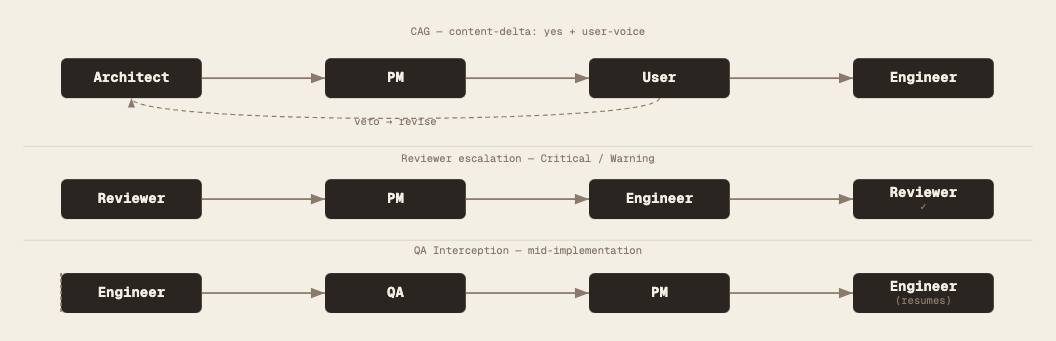
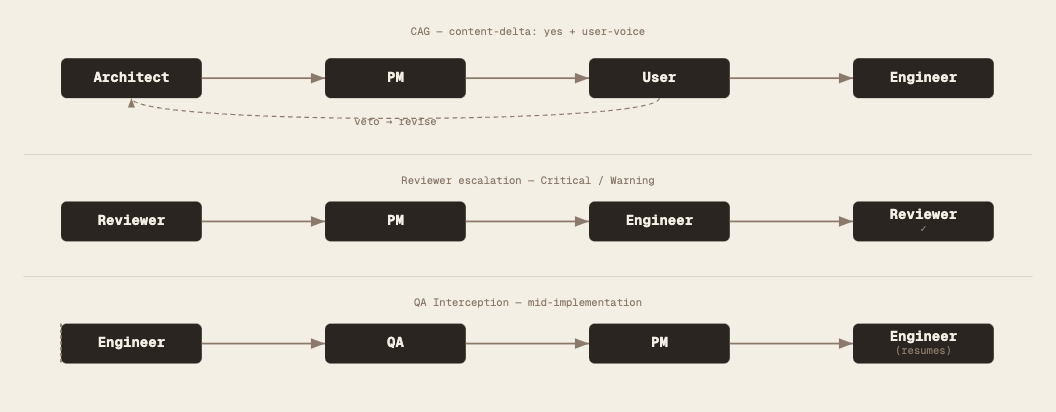
feat(K-096): footnote annotations + larger lane spacing in pm-arbitration-detail
Add CAG and QA Early Consultation footnotes below "Automatic handoffs…" paragraph
in RolePipelineSection.tsx (user approved verbatim text, CAG cleared). Fix
pm-arbitration-detail.svg lane spacing: separator-to-title gap 12px → 25px,
viewBox 900×350. Fix about.spec.ts AC-058-ROLE-PIPELINE to use .first() after
footnote paragraphs caused strict-mode violation. Re-screenshot PNG.

diff --git a/frontend/src/components/about/RolePipelineSection.tsx b/frontend/src/components/about/RolePipelineSection.tsx
@@ -4,9 +4,17 @@ import PmArbitrationDetailSvg from '../../assets/pm-arbitration-detail.svg?react
 export default function RolePipelineSection() {
   return (
     <div>
-      <p className="text-[14px] text-ink leading-[1.6] mb-6">
+      <p className="text-[14px] text-ink leading-[1.6] mb-2">
         Automatic handoffs between six AI agents. PM self-arbitrates at five pipeline positions via a four-source priority stack — the only operator pause is the Content-Alignment Gate on user-visible copy tickets.
       </p>
+      <div className="mb-6 space-y-1">
+        <p className="text-[11px] font-mono text-ink/50 leading-[1.5] italic">
+          Content-Alignment Gate (CAG): any ticket that changes user-visible text stops here — PM presents the Architect&apos;s draft verbatim; the user approves before Engineer begins.
+        </p>
+        <p className="text-[11px] font-mono text-ink/50 leading-[1.5] italic">
+          QA Early Consultation: before Architect starts, QA reviews the ticket scope and flags which acceptance criteria can be automated — so testability is built into the design, not retrofitted.
+        </p>
+      </div>
 
       <PipelineSvg
         width="100%"

diff --git a/frontend/e2e/about.spec.ts b/frontend/e2e/about.spec.ts
@@ -372,7 +372,7 @@ test.describe('AC-058-ROLE-PIPELINE — Role pipeline SVG section', () => {
   test('role pipeline img visible and paragraph contains four-source priority stack', async ({ page }) => {
     await page.goto('/about')
     await expect(page.locator('[data-testid="role-pipeline-svg"]')).toBeVisible()
-    await expect(page.locator('[data-section="role-pipeline"] p')).toContainText('four-source priority stack')
+    await expect(page.locator('[data-section="role-pipeline"] p').first()).toContainText('four-source priority stack')
   })
 })
 

diff --git a/README.md b/README.md
@@ -2,7 +2,7 @@
 
 <!-- DO NOT EDIT inside markers — generator overwrites. Edit content/site-content.json instead. -->
 <!-- METRICS:start -->
-74+ tickets shipped · 92/92 AC covered · 44 post-mortems · 246 lessons codified
+74+ tickets shipped · 92/92 AC covered · 44 post-mortems · 248 lessons codified
 <!-- METRICS:end -->
 
 <!-- DO NOT EDIT inside markers — generator overwrites. Edit content/site-content.json instead. -->
